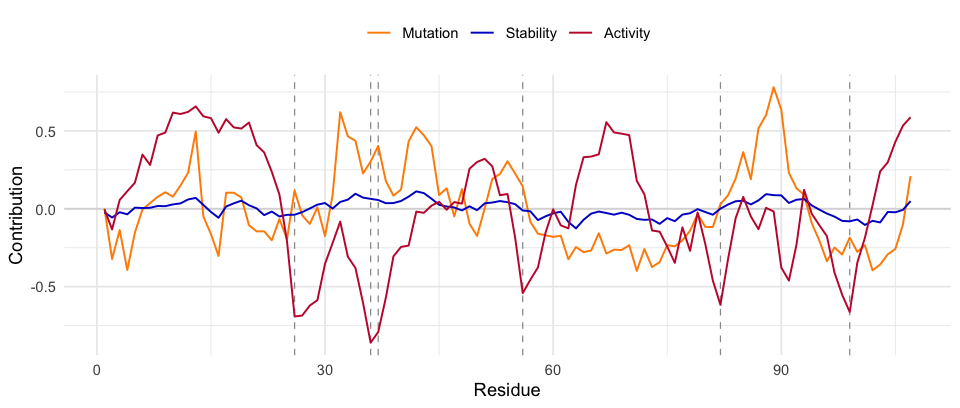
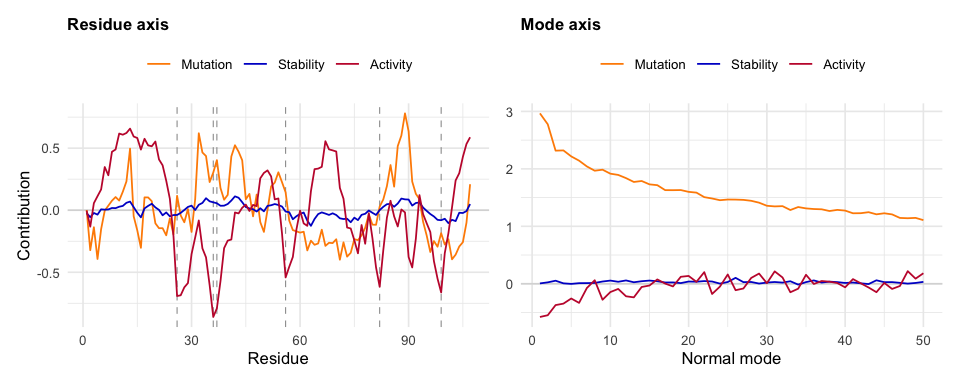
docs(readme): show both axes side by side in three sections
The README fitted and plotted the residue axis only, though every profile
function returns both a $site and a $mode table. The example now has three
sections, each a pair of panels: predicted profiles, the four nested models
(MM, MS, MA, MSA), and the mutation/stability/activity decomposition. The
fit is still made on the residue axis; the mode panels carry no observed
points, since the observed profile is per residue.

Mode panels show the first 50 of 315 modes. Note nlrmsd is mean-centred
over all modes, so a cropped panel does not appear centred: the first 50
are the slowest, highest-divergence modes and the profile does not cross
zero until mode 195.

Also drops man/figures/README-profile-1.png, orphaned by renaming the
chunk from profile to profiles.

Claude-Session: https://claude.ai/code/session_012mrCJc8abRWDDGdNZJbwV3

diff --git a/README.md b/README.md
@@ -35,7 +35,7 @@ package is on CRAN.
 
 ## Example
 
-Mutate every site, fit the model to an observed profile, predict:
+Mutate every site, then fit the model to an observed profile:
 
 ``` r
 library(msamodel)
@@ -51,26 +51,31 @@ spm <- generate_spm(wt, n_mutations = 10,
                     pdb_site_active = active$pdb_site, ensemble = 1L)
 
 fit  <- fit_lrmsd_msa_site(spm, obs$pdb_site, obs$lrmsd_obs)
-pred <- predict_profiles(fit, spm, metric = "nlrmsd")$site
+pred <- predict_profiles(fit, spm, metric = "nlrmsd")
+dec  <- predict_decomposition(fit, spm, metric = "nlrmsd")
 ```
 
-<img src="man/figures/README-profile-1.png" width="100%" />
+The fit is made on the residue axis, and the model is then read on both
+axes: per residue, and per normal mode. The observed profile exists only
+per residue, so it appears in the left panel alone.
 
-Observed divergence (points), fitted model with 95% band, active-site
-residues dashed. The two fitted selection strengths are 0.23 on
-stability and 79 on activity, accounting for 60% of the variance in the
-observed profile.
+<img src="man/figures/README-profiles-1.png" width="100%" />
 
-The same fit decomposes the profile into its three contributions:
+Dropping one or both selection constraints gives the nested models: MM
+is mutation alone, MS adds selection on stability, MA adds selection on
+activity, and MSA is the full model.
 
-``` r
-dec <- predict_decomposition(fit, spm, metric = "nlrmsd")$site
-```
+<img src="man/figures/README-nested-1.png" width="100%" />
+
+The same fit decomposes each profile into its three contributions, which
+add up to the full model above.
 
 <img src="man/figures/README-decomposition-1.png" width="100%" />
 
-The three contributions add up to the profile above. Their balance
-varies from family to family.
+The two fitted selection strengths are 0.23 on stability and 79 on
+activity, accounting for 60% of the variance in the observed profile.
+Dashed lines mark active-site residues; bands are 95% intervals. The
+mode panels show the first 50 of 315 modes.
 
 ## Interface
 
